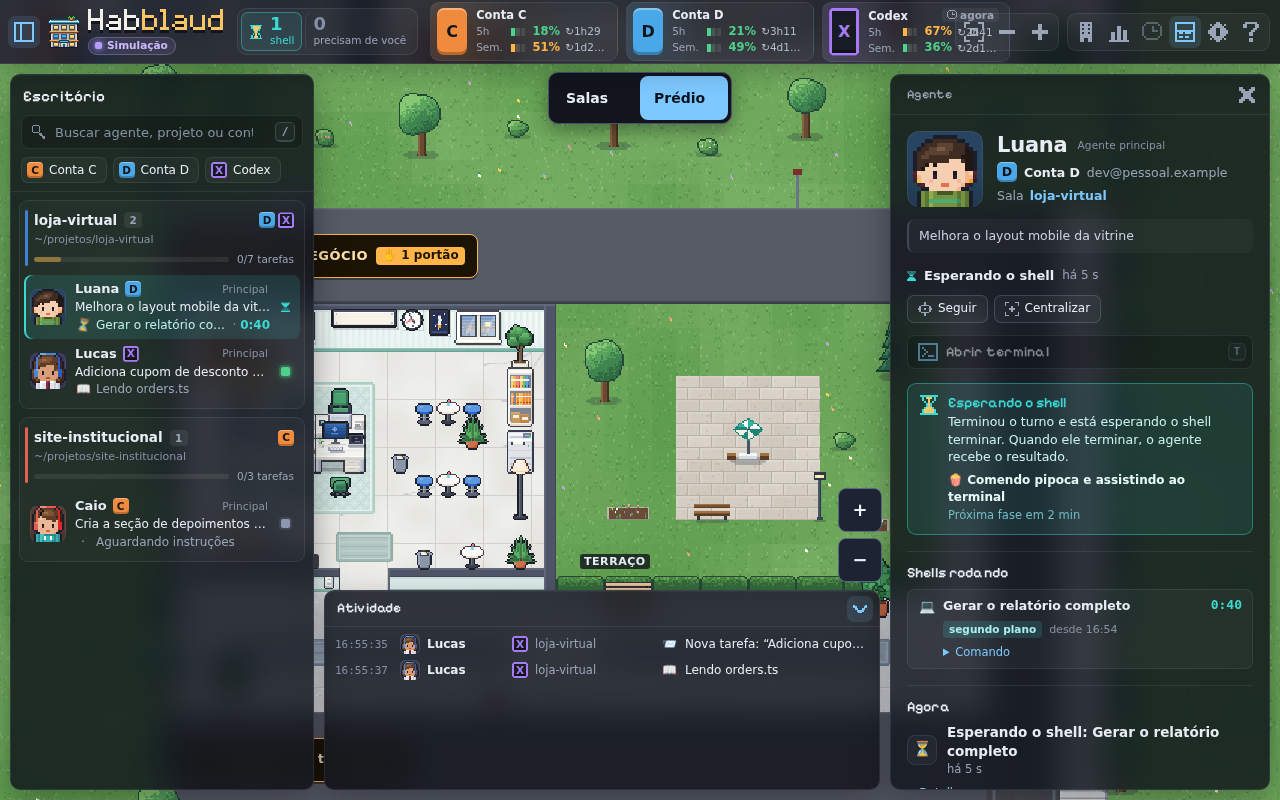
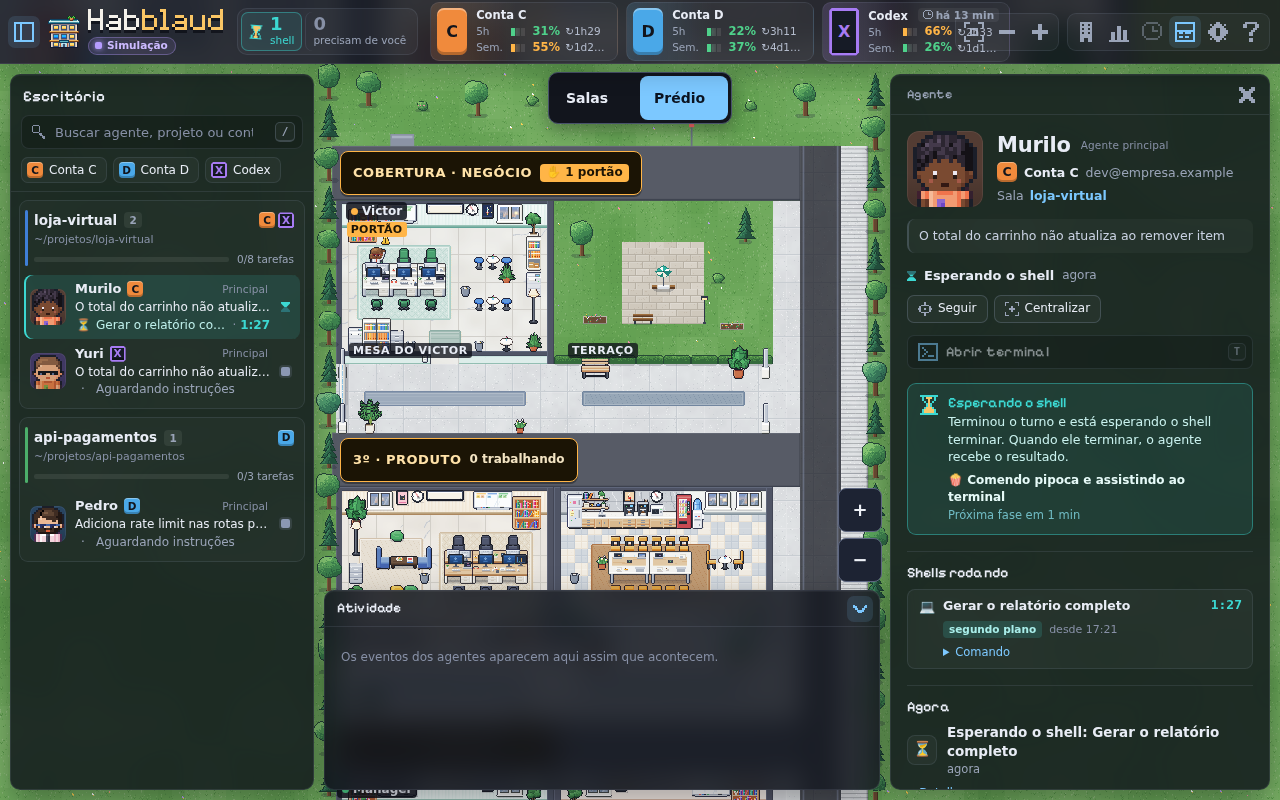
predio-vertical S6: selo opaco (contraste), visão geral do Prédio na área livre, alternador antes das placas no Tab; remove print com e-mail (escritorio t_3e9a1d57)
Pedidos do designer (rodada 1). real-1280-predio-gaveta.png saiu; novo print real-1280-predio-gaveta-hermes.png sem e-mail.

diff --git a/client/src/predio/vista.ts b/client/src/predio/vista.ts
@@ -93,6 +93,7 @@ export class VistaPredio implements UiComponent {
   private assinatura = '';
   private readonly crachas = new Map<string, Cracha>();
   private escala = 1;
+  private margem = { l: 0, r: 0 };
   private detalhe = false;
   private raf = 0;
   private ultimo = 0;
@@ -130,7 +131,8 @@ export class VistaPredio implements UiComponent {
     menos.addEventListener('click', () => this.zoomCentro(1 / FATOR_ZOOM));
     this.zoom.append(mais, menos);
 
-    this.el.append(this.camada, this.alterna, this.zoom);
+    // alternador primeiro no DOM: vem antes das placas na ordem do Tab
+    this.el.append(this.alterna, this.camada, this.zoom);
 
     new ResizeObserver(() => this.posicionar()).observe(this.topbar);
     addEventListener('resize', () => {
@@ -141,6 +143,15 @@ export class VistaPredio implements UiComponent {
       }
     });
     document.addEventListener('visibilitychange', () => this.ligarLoop());
+    // A área livre muda quando a lista lateral ou a gaveta abrem/fecham (--free-* no root).
+    new MutationObserver(() => {
+      if (this.camada.hidden) return;
+      const { l, r } = this.margem;
+      const ev = this.escalaVisao();
+      if (l === this.margem.l && r === this.margem.r) return;
+      this.aplicarEscala(this.detalhe ? this.escala : ev);
+      this.desenharAgora();
+    }).observe(this.ctx.root, { attributes: true, attributeFilter: ['style'] });
 
     this.vista = lerVista();
     this.aplicarVista();
@@ -288,17 +299,31 @@ export class VistaPredio implements UiComponent {
 
   // ------------------------------------------------------------------ câmera
 
+  /** Margens laterais da área livre (--free-left/--free-right, as mesmas que as Salas usam). */
+  private livre(): { l: number; r: number } {
+    const cs = getComputedStyle(this.ctx.root);
+    const px = (n: string) => Math.max(0, parseFloat(cs.getPropertyValue(n)) || 0);
+    const l = px('--free-left');
+    const r = px('--free-right');
+    this.margem = l + r < this.camada.clientWidth - 80 ? { l, r } : { l: 0, r: 0 };
+    return this.margem;
+  }
   private escalaVisao(): number {
-    return Math.max(0.5, Math.min(1.5, this.camada.clientWidth / WPX));
+    const { l, r } = this.livre();
+    return Math.max(0.5, Math.min(1.5, (this.camada.clientWidth - l - r) / WPX));
   }
   private largPalco(): number {
-    return Math.max(this.camada.clientWidth, Math.round(WPX * this.escala));
+    const { l, r } = this.margem;
+    return Math.max(this.camada.clientWidth, Math.round(WPX * this.escala) + l + r);
   }
+  /** O prédio fica centrado na área livre (fora da lista lateral e da gaveta). */
   private offX(): number {
-    return Math.round((this.largPalco() - WPX * this.escala) / 2);
+    const { l, r } = this.margem;
+    return l + Math.round((this.largPalco() - l - r - WPX * this.escala) / 2);
   }
 
   private aplicarEscala(s: number): void {
+    this.livre();
     this.escala = s;
     const h = (this.m?.cena.alturaT ?? 0) * TILE;
     this.palco.style.width = `${this.largPalco()}px`;

diff --git a/client/src/ui/styles.css b/client/src/ui/styles.css
@@ -8165,6 +8165,11 @@ html.is-replay #world {
   letter-spacing: 0.03em;
   text-transform: uppercase;
 }
+/* Sobre a cena o fundo 22% transparente do .ui-hsel some: fundo opaco como o .pv-selo do protótipo. */
+.pred-selo.ui-hsel:not(.ui-hsel--reserva) {
+  background: color-mix(in srgb, var(--hsel) 30%, #12151d);
+  color: #f3f5fa;
+}
 .pred-selo--portao {
   display: inline-flex;
   align-items: center;
